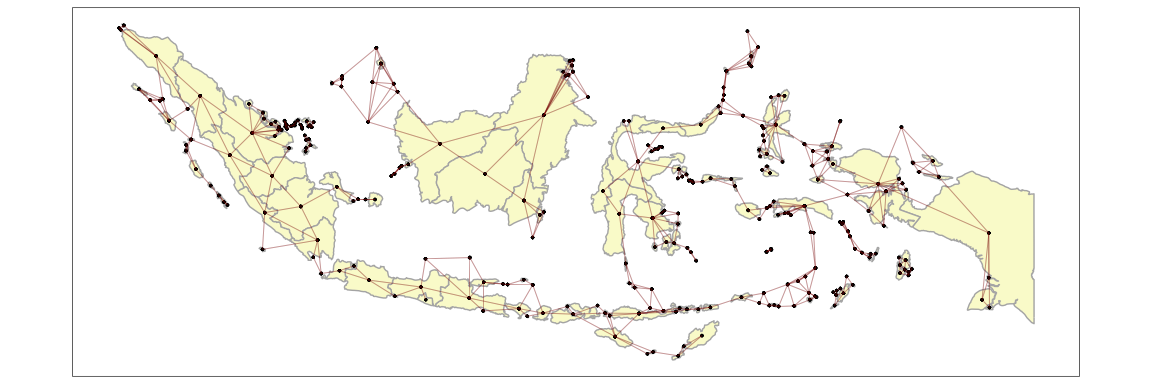
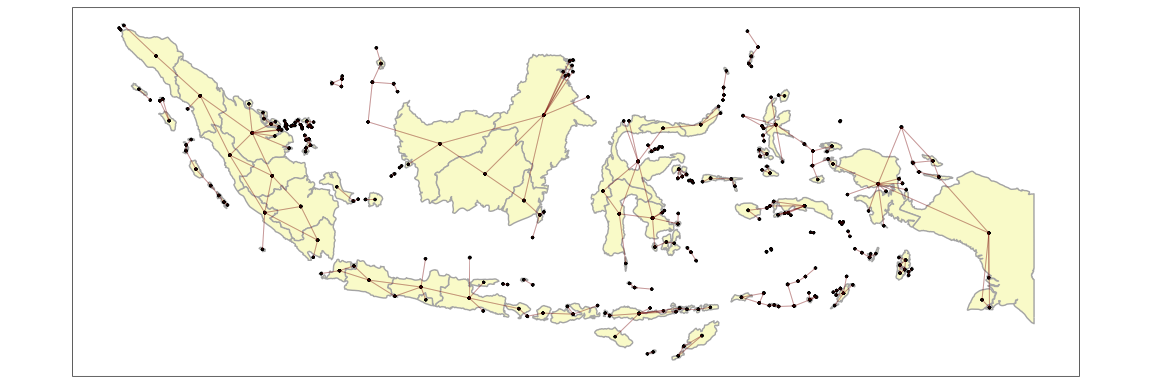
improve text of readme

diff --git a/README.md b/README.md
@@ -108,7 +108,7 @@ library(kh)
 
 #### quickmap_contigs()
 
-The following is a map of the UK from the `rnaturalearth` package. It
+The following is a map of Indonesia from the `rnaturalearth` package. It
 features many non-contiguous units. In the following example of
 `make_contigs`, the argument k is set to one. This means that in
 addition to all of the normal contiguities, all islands will be joined
@@ -126,7 +126,7 @@ indonesia <- ne_states(country="indonesia", returnclass = "sf") |>
 indonesia$id <-1:nrow(indonesia)
 indonesia_cont <- make_contigs(data = indonesia,
                                unit = id,
-                               link_islands_k = 2, 
+                               link_islands_k = 1, 
                                modelling.package = "brms") |> 
   quickmap_contigs(indonesia, id)
 ```
@@ -134,7 +134,7 @@ indonesia_cont <- make_contigs(data = indonesia,
 <img src="man/figures/README-unnamed-chunk-3-1.png" width="100%" />
 
 Rather than operating at the individual island level, this can be done
-at a higher level by changing an argument in the function.
+at a higher provincial level by changing an argument in the function.
 
 ``` r
 
@@ -206,8 +206,8 @@ temp[1:10,1:10]
 #> Jawa Tengah        0    0    0    0    0    0    0    0    1     0
 ```
 
-This could be changed to join each island to the two closest units as in
-this example with the countries of Asia.
+The k value could be changed to 2 to join each island to the two closest
+units as in this example with the countries of Asia.
 
 ``` r
 
@@ -272,6 +272,10 @@ temp[1:10,1:10]
 #> East Timor     0    0    0    0    0    0    0    0    0     0
 ```
 
+## Modelling example from UK
+
+### Use of pre-processing functions
+
 Applied to the situation of modelling voting behaviour in the UK, we can
 set up contiguities according to administrative level.
 
@@ -329,6 +333,15 @@ widths = c(1,2,3)
 ```
 
 <img src="man/figures/README-unnamed-chunk-11-1.png" width="100%" />
+
+### Use of checking/editing functions
+
+We might want to alter the contiguities based on some subject-matter
+knowledge. Perhaps some islands are more closely linked to some mainland
+areas than to others due to, for example, a ferry service.
+
+The following functions allow constituencies to be manually paired or
+unpaired as necessary.
 
 #### manual_link_name()
 
@@ -410,7 +423,7 @@ uk_admins |>
 #> [1] "Gosport"
 ```
 
-### Post-processing functions
+### Use of post-processing functions
 
 | Function         | Purpose               |
 |------------------|-----------------------|
